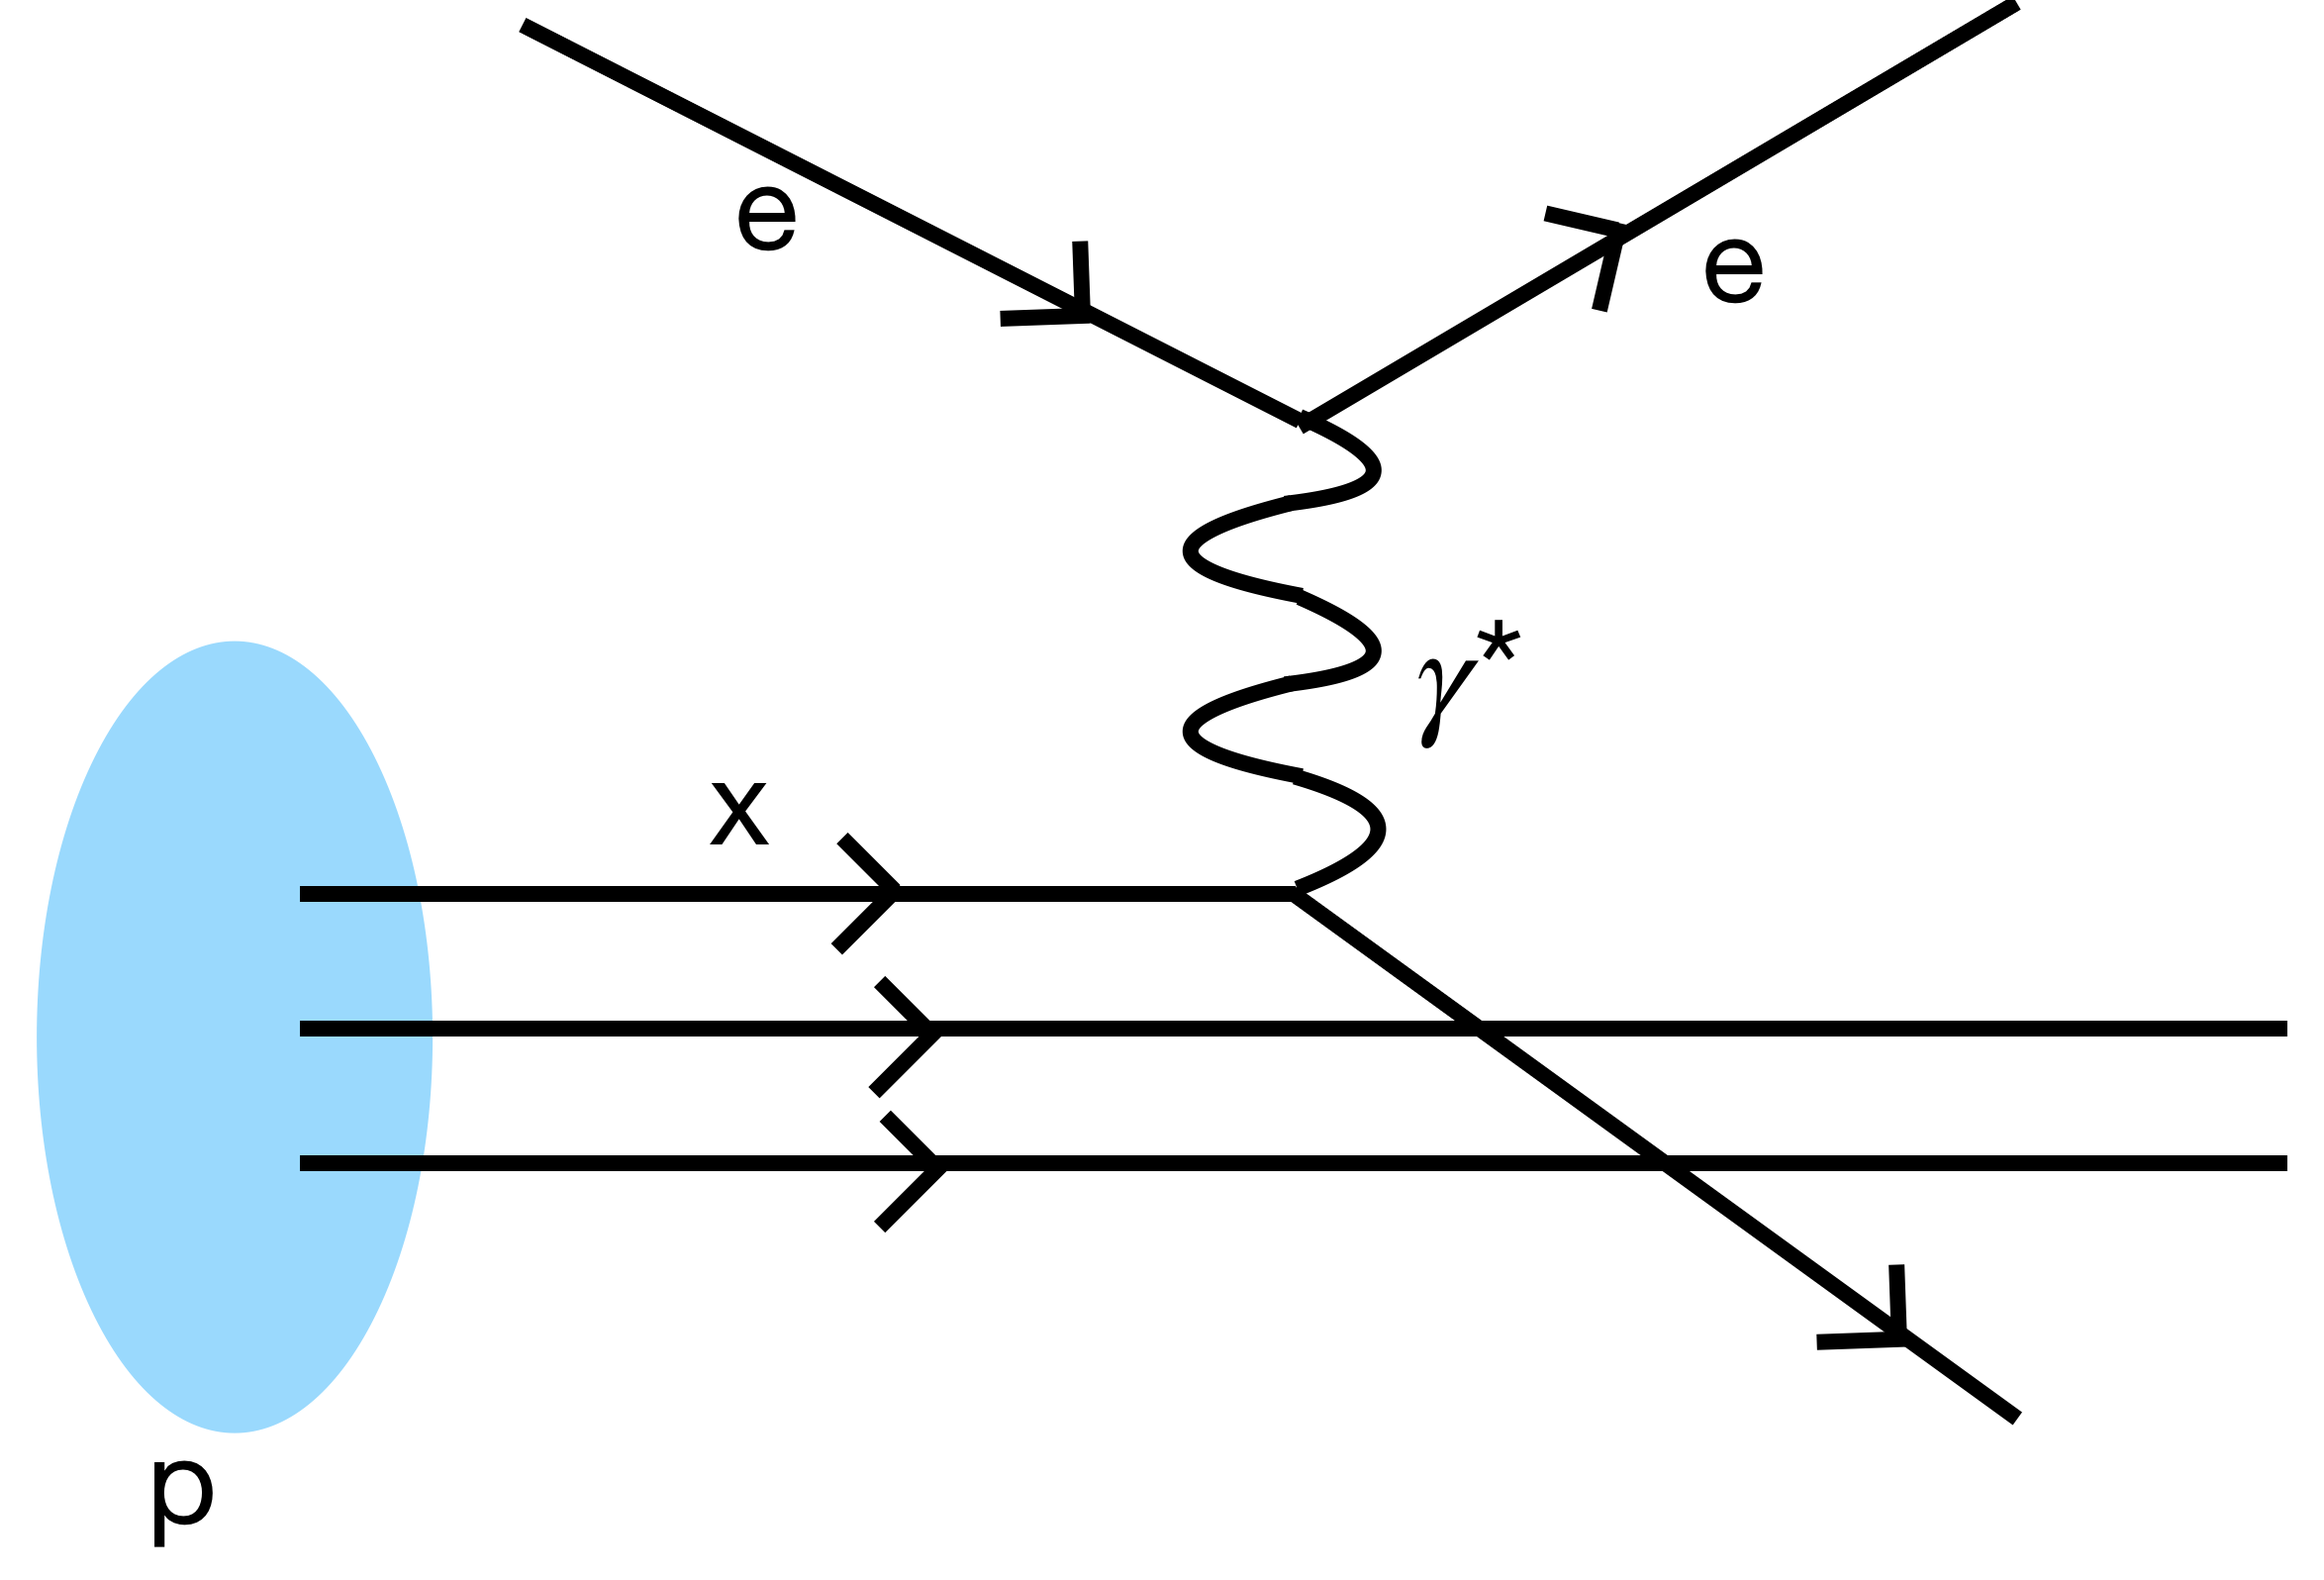
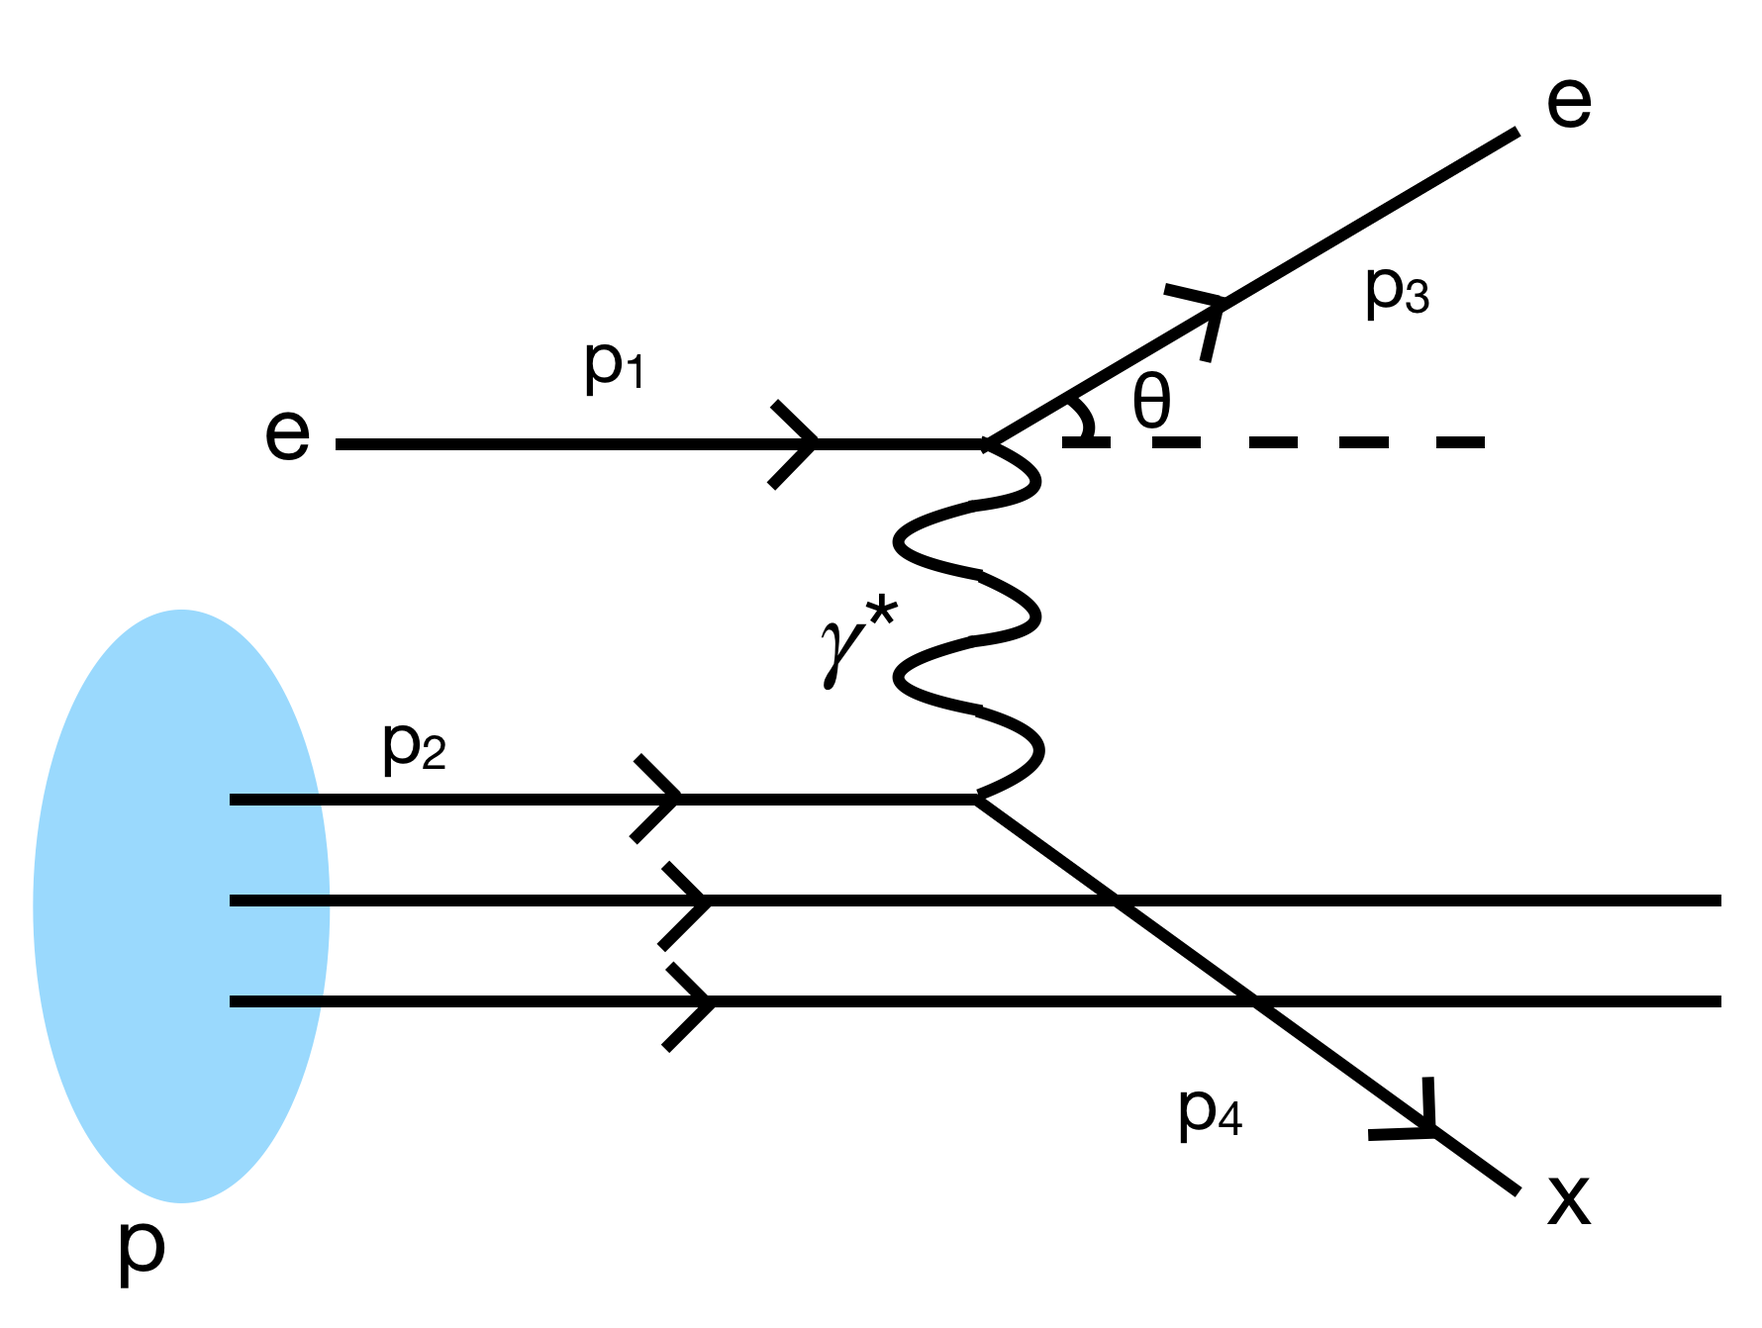
need to update git to pull into overleaf

diff --git a/LitRev.tex b/LitRev.tex
@@ -38,35 +38,40 @@
 
     
 \justify
-\section{Background}
+
+\begin{abstract}
+
+\end{abstract}
+
+\section{Introduction}
 
 \subsection*{\textbf{Deep Inelastic Scattering}}
 
-Electron-proton collisions at sufficiently high energies result in the proton breaking up into hadrons, this process is referred to as Deep Inelastic Scattering (DIS) shown in Fig.\ref{fig:DIS}. This theory has led to the discovery that protons are composite particles containing three valance quarks. While elastic scattering, where the proton is not broken up, do occur at high energies as well, DIS is the dominant collision type at high energies.
+Electron-proton collisions at sufficiently high energies result in the proton breaking up into hadrons, this process is referred to as Deep Inelastic Scattering (DIS) shown in Fig.\ref{fig:DIS}. This means that protons are composite particles containing three valance quarks. While elastic scattering, where the proton is not broken up, do occur at high energies as well, DIS is the dominant collision type at high energies.
 
 \begin{figure}[!h]
 	\centering
 		\includegraphics[width =0.4\textwidth]{DIS.png}
-		\caption{Schematic diagram showing deep inelastic scattering.}
+		\caption{Schematic diagram showing deep inelastic scattering of an electron and a proton. The electron exchanges a virtual photon $\gamma *$ with one of the valance quarks of the proton.}
 		\label{fig:DIS}
 \end{figure}
 
 The hadronic final state consists of many particles and as a result its invariant mass can have a range of values unlike elastic scattering where the invariant mass of the final state is the mass of the proton. This range of values leads to an additional degree of freedom which requires an additional quantity to describe the kinematics of the event. The quantities required are chosen from a list of Lorentz invariant quantities x, y, $\nu$, and $Q^2$. 
 The energies at which DIS occurs are high enough to neglect the mass of the electrons while making predictions, as a result a good approximation of $Q^2$ can be made \cite{Modern}:
 \begin{equation}
-	Q^2 = 4E_1E_3sin^2\frac{\theta}{2}
+	Q^2 = 4E_1E_3 \sin ^2\frac{\theta}{2}
 	\label{eq:Q2}
 \end{equation}
-which is always positive. In eq \ref{eq:Q2} $Q^2$ is the four-momentum squared, $E_1$ is the energy of the
-%Bjorken x
+which is always positive. In eq (\ref{eq:Q2}), $Q^2$ is the four-momentum squared, $E_1$ is the energy of the incoming electron, $E_3$ is the energy of the scattered elctron and $\theta$ is the angle by which the electron is scattered.
+
 Bjorken $x$ is one of the Lorentz invariant quantities that can be used to describe kinematics of DIS. It is given by the following equation \cite{Modern}: 
 \begin{equation}
 	x = \frac{Q^2}{Q^2 + W^2 - m_p^2}
 	\label{eq:x}
 \end{equation}
-where $Q^2$ is the four-momentum transferred, $W^2$ is the invariant mass of the hadronic state, and $m_p^2$ is the rest mass of the proton squared. $W^2 \geq m_p^2$ because for baryon number to be conserved, the hadronic state must contain one baryon and the proton is the lightest baryon. $W^2 - m_p^2 \geq 0$ along with $Q^2 \geq 0$ gives the range $0 \leq x \leq 1$. Bjorken $x$ is a variable that describes the elasticity of the scattering process, and when $x = 1$ the scattering process is elastic and $Q^2 = W^2$.
+where $Q^2$ is the four-momentum transferred, $W^2$ is the invariant mass of the final hadronic state, and $m_p^2$ is the rest mass of the proton squared. $W^2 \geq m_p^2$ because for baryon number to be conserved, the hadronic state must contain at least one baryon and the proton is the lightest baryon. $W^2 \geq m_p^2$ along with $Q^2 \geq 0$ defines the range of $x$ $0 \leq x \leq 1$. Bjorken $x$ is a variable that describes the elasticity of the scattering process, and when $x = 1$ the scattering process is elastic and $Q^2 = W^2$.
 
-Another Lorentz invariant dimensionless quantity used to describe DIS kinetics is the inelasticity $y$ and it is defined as follows \cite{Modern}:
+Another Lorentz invariant dimensionless quantity used to describe DIS kinematics is the inelasticity $y$ and it is defined as follows \cite{Modern}:
 \begin{equation}
 	y = 1-\frac{E_3}{E_1}.
 	\label{eq:y}
@@ -79,7 +84,7 @@ In situations where it is more convenient to work with the energy difference rat
 	\label{eq:nu}
 \end{equation}
 and can be understood as the absolute energy lost by the electron in the scattering process.
-The kinematics of a DIS collision can be described using any combination of $Q^2$, $x$, $y$, and $\nu$ for a fixed centre of mass energy, except for $y$ and $\nu$ because they are not independent of each-other.
+The kinematics of a DIS collision can be described using any combination of $Q^2$, $x$, $y$, and $\nu$ for a fixed centre of mass energy, except for $y$ and $\nu$ because they are not independent of each other.
 
 \subsection*{\textbf{Plasma Wakefield Acceleration}}
 
@@ -89,17 +94,17 @@ The new frontier of colliders are thought to be electron-positron colliders with
 
 Plasmas are capable of sustaining $10 GeV/m$ potential gradients which is several orders of magnitudes greater than what RF accelerators are capable of achieving. Plasmas support near light speed waves or wakes which is the key mechanism for accelerating electrons. These wakes are made of longitudinal and transverse components, the longitudinal component provides the electrons with the acceleration and the transverse components focuses the electron bunch. The transverse component has a focusing power many orders larger than conventional magnets used for focusing \cite{0114}.
 
-Proton driven plasma wakefield acceleration is the next step for particle colliders to advance, however there is a challenge that needs to be overcome: the current length of of proton bunches used to drive the wakefield is too long. Plasmas have an oscillating frequency which needs to be met by the driving frequency to achieve resonance. Plasmas which can provide GeV/m potential have a wavelength in the mm scale, while proton bunches are much longer, in the cm scale \cite{0114}.
+Proton driven plasma wakefield acceleration could be the next step for particle colliders to advance, however there is a challenge that needs to be overcome: the current length of of proton bunches used to drive the wakefield is too long. Plasmas have an oscillating frequency which needs to be met by the driving frequency to achieve resonance. Plasmas which can provide GeV/m potential have a wavelength in the mm scale, while proton bunches are much longer, in the cm scale \cite{0114}.
 
 One solution is self modulating instability (SMI), this is a mechanism by which the driving frequency can be made to match the plasma frequency. SMI splits bunches of protons into micro bunches which reduces the wavelength of the driving proton beam. Under the right conditions the wavelength can be made to exactly equal exactly one plasma wavelength, achieving resonance. Despite SMI being energy inefficient, it is cost effective and relatively simple to execute, as a result it is a good starting point to use in the proof of concept for wakefield acceleration \cite{1115}.
 
 \section{HERA Collider and H1 Collaboration}
 
-HERA was a electron-proton collider that ran from 1997-2007 and had a circumference of 6.3 Km. Electrons were accelerated to $\approx 27.5$ GeV and collided with protons that were accelerated to $\approx 900$ GeV \cite{Modern}. It operated with a centre of mass energy of $\sqrt{s} = 318 GeV$, which was the highest centre of mass for a $ep$ collider \cite{1308}.
+HERA was the only electron-proton collider and it ran from 1992-2007 and had a circumference of 6.3 km. Electrons were accelerated to $27.5$ GeV and collided with protons that were accelerated to $900$ GeV \cite{Modern}. It operated with a centre of mass energy of $\sqrt{s} = 318$ GeV \cite{1308}.
 
 The H1 collaboration \cite{H1} was one of the experiments that was located at HERA. Ref \cite{H1} presents measurements of jet cross sections in neutral current (NC) DIS for $5.5 \leq Q^2 \leq 80 GeV^2$ with inelasticities $0.2 \leq y \leq 0.6$. 
 
-If quarks were composite particles then deviations from the Bjorken scaling would be expected when the wavelength of the virtual photon was comparable to the size of the quark. As the data colleced by H1 was consistent with Bjorken scalling, the radius of the quark was predicted to be smaller than $10^{-18}m$.
+If quarks were composite particles then deviations from the Bjorken scaling would be expected when the wavelength of the virtual photon was comparable to the size of the quark. As the data colleced by H1 was consistent with Bjorken scalling, the radius of the quark was predicted to be smaller than $10^{-18}m$ \cite{Modern}.
 
 \subsection*{\txtbf{Rivet Analysis of H1 Collaboration}}
 
@@ -109,7 +114,20 @@ One of the main aims is to write a complete Rivet analysis for the H1 paper \cit
 
 
 \section{Timeline}
+The tentative timeline for project:
+\begin{enumerate}
 
+
+\item Literature review and background reading $\sim$ 3 weeks
+
+\item Import Data into Rivet $\sim$ 5 weeks
+
+\item Crosscheck H1 DIS theory using Rivet Analysis $\sim$ 8 weeks
+
+\item Using H1 Rivet Analysis to predict DIS at very high energies $\sim$ 4 weeks 
+
+\item Looking beyond the H1 analysis $\sim$ 3 weeks
+\end{enumerate}
 
 
 \bibliographystyle{ieeetr}
